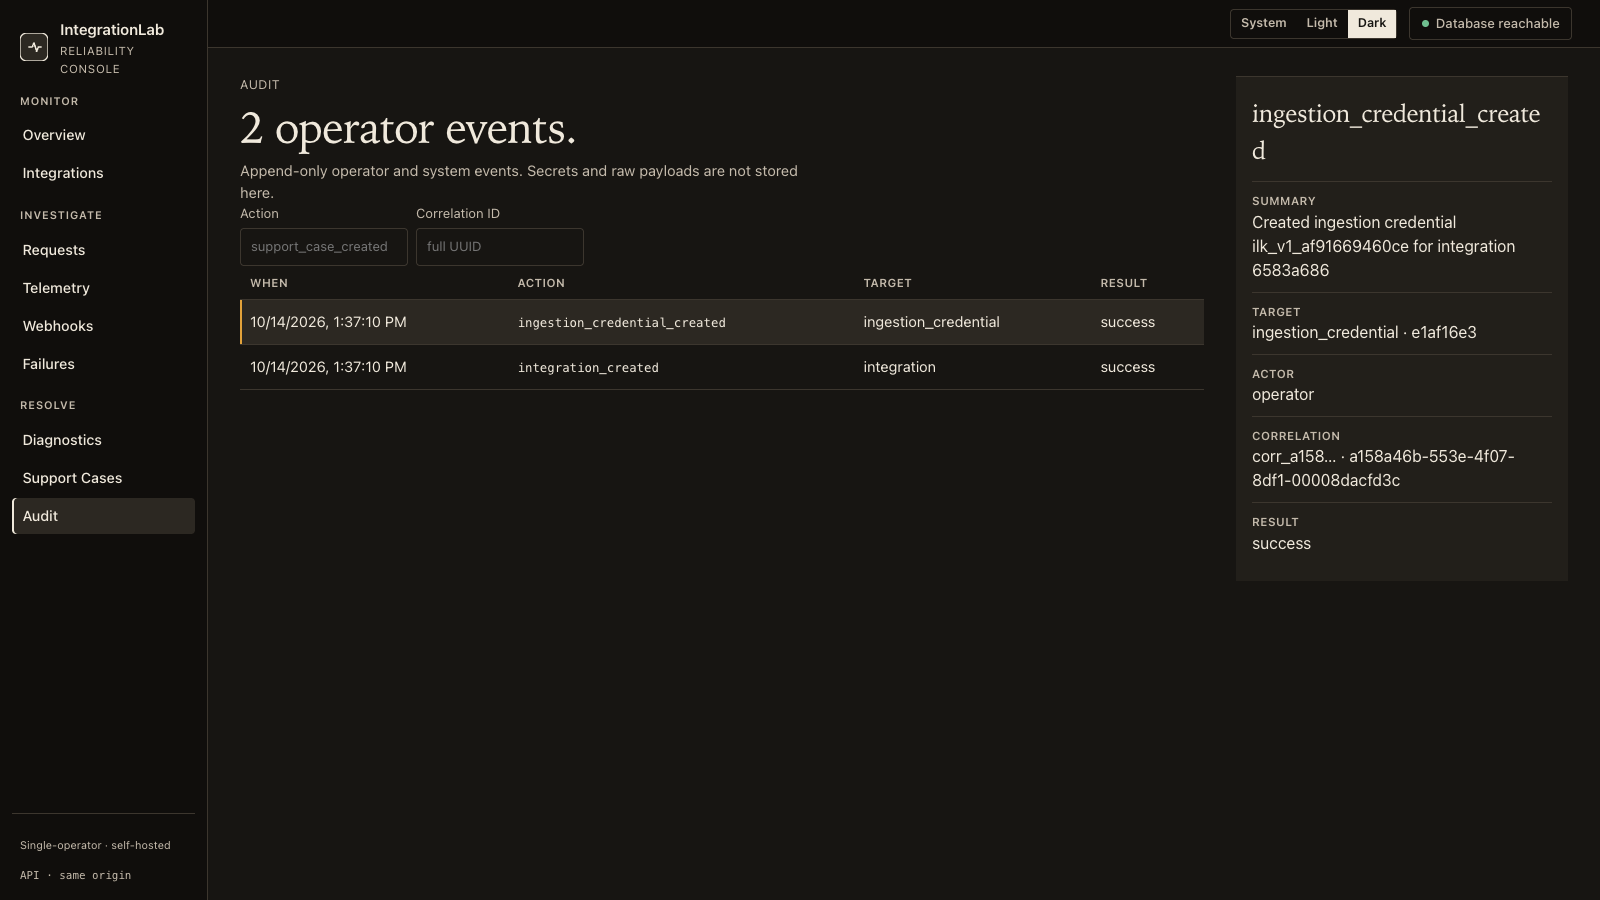
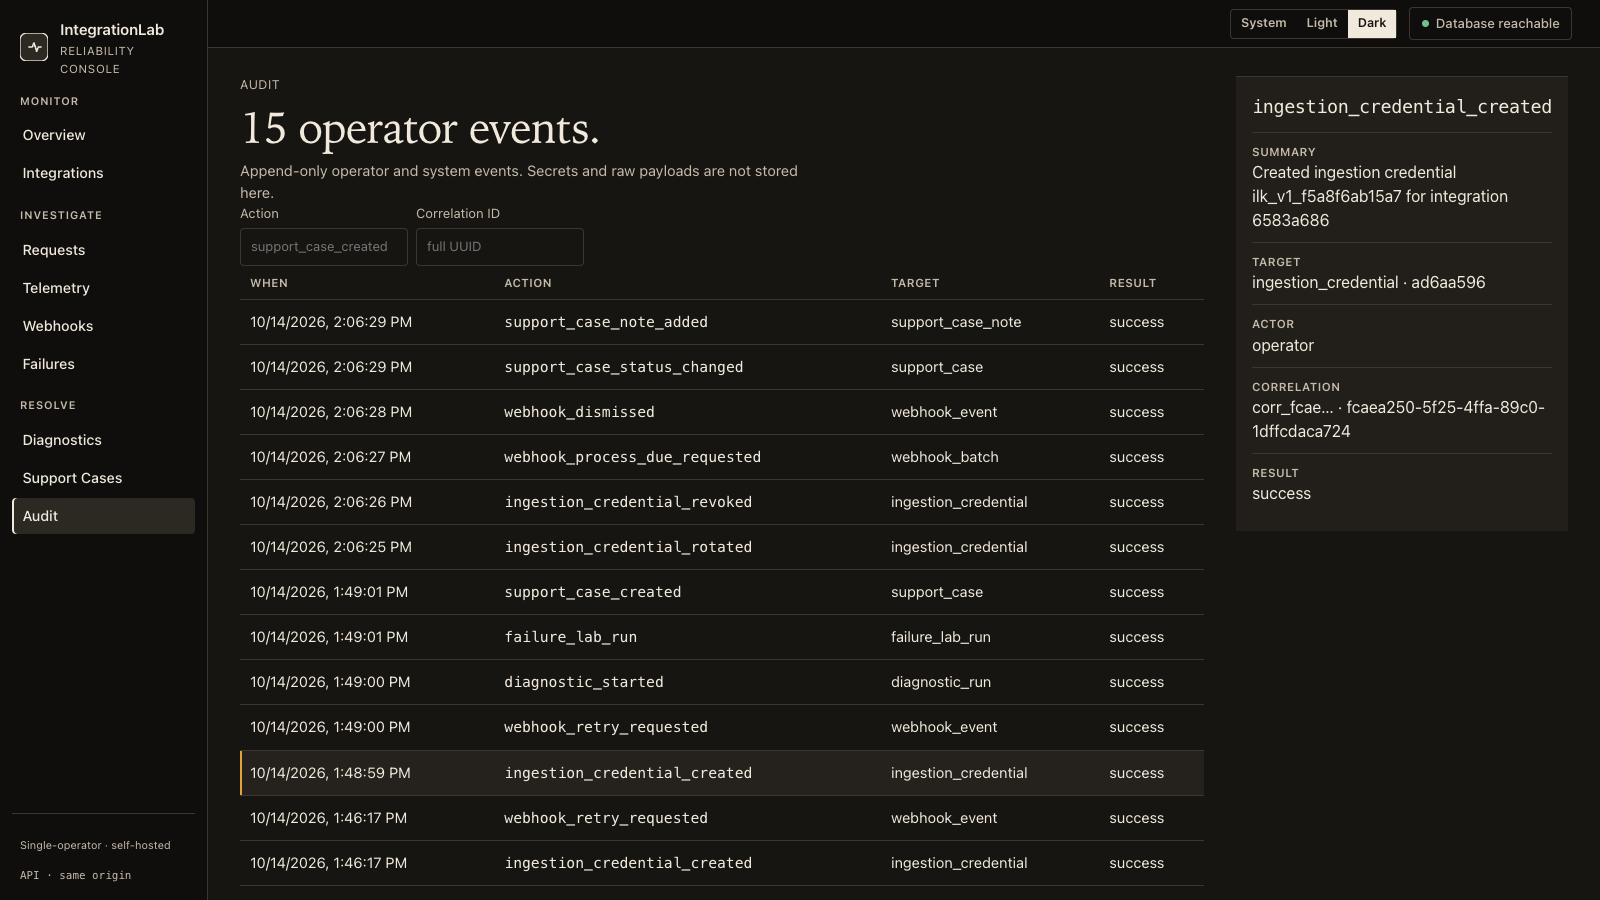
Keep keyboard focus inside the Ledger list that received the key.
Audit identifiers now break only on underscores, and the isolated review covers credential rotation, revocation, webhook dismiss, and support-case notes and status.

diff --git a/frontend/src/pages/AuditPage.tsx b/frontend/src/pages/AuditPage.tsx
@@ -1,6 +1,7 @@
 import { useCallback, useState } from 'react'
 import { listAuditEvents } from '../api'
 import EvidenceTrail from '../components/ledger/EvidenceTrail'
+import IdentifierText from '../components/ledger/IdentifierText'
 import LedgerList from '../components/ledger/LedgerList'
 import SectionStatus from '../components/SectionStatus'
 import { formatTime } from '../format'
@@ -80,8 +81,8 @@ function AuditPage() {
                 detail: shorten(item.safe_summary, 90),
                 cells: [
                   formatTime(item.created_at),
-                  <span key="action" className="lg-mono">
-                    {item.action}
+                  <span key="action" className="lg-id">
+                    <IdentifierText value={item.action} />
                   </span>,
                   item.target_type,
                   item.outcome,
@@ -93,10 +94,7 @@ function AuditPage() {
             />
           ) : null}
         </div>
-        <EvidenceTrail
-          title={(selected?.action ?? 'Event').replaceAll('_', '_\u200b')}
-          stations={auditStations(selected)}
-        />
+        <EvidenceTrail title={selected?.action ?? 'Event'} stations={auditStations(selected)} identifier />
       </div>
     </div>
   )

diff --git a/frontend/src/components/ledger/LedgerList.tsx b/frontend/src/components/ledger/LedgerList.tsx
@@ -2,6 +2,7 @@ import { useState } from 'react'
 import type { KeyboardEvent, ReactNode } from 'react'
 import { HEALTH_LABELS } from '../../format'
 import { healthTone } from '../../ledger/copy'
+import { focusableOptionInList } from '../../ledger/focus'
 import type { HealthState } from '../../types'
 import { useScrollEdges } from './useScrollEdges'
 
@@ -23,10 +24,15 @@ export interface LedgerRow {
   detail?: ReactNode
 }
 
-function focusOption(id: string) {
+function focusOption(list: ParentNode | null, id: string) {
   window.setTimeout(() => {
-    const matches = Array.from(document.querySelectorAll<HTMLElement>('[data-lg-option]'))
-    matches.find((element) => element.dataset.lgId === id && element.getClientRects().length > 0)?.focus()
+    if (!list) return
+    const options = Array.from(list.querySelectorAll<HTMLElement>('[data-lg-option]')).map((element) => ({
+      id: element.dataset.lgId ?? '',
+      visible: element.getClientRects().length > 0,
+      element,
+    }))
+    focusableOptionInList(options, id)?.element.focus()
   }, 0)
 }
 
@@ -52,7 +58,7 @@ function onOptionKey(
   const id = next?.dataset.lgId
   if (!id) return
   onSelect(id)
-  focusOption(id)
+  focusOption(group, id)
 }
 
 function LedgerList({

diff --git a/frontend/src/ledger/focus.test.ts b/frontend/src/ledger/focus.test.ts
@@ -1,0 +1,22 @@
+import assert from 'node:assert/strict'
+import test from 'node:test'
+import { focusableOptionInList } from './focus.ts'
+
+test('arrow-key focus stays in the list that received the key when an id is shared', () => {
+  const delivery = [
+    { id: 'evt-shared', visible: true, list: 'deliveries' },
+    { id: 'evt-other', visible: true, list: 'deliveries' },
+  ]
+  const failed = [
+    { id: 'evt-shared', visible: true, list: 'failed' },
+    { id: 'evt-older', visible: true, list: 'failed' },
+  ]
+  const hiddenCard = { id: 'evt-older', visible: false, list: 'failed' }
+
+  assert.equal(focusableOptionInList(delivery, 'evt-shared')?.list, 'deliveries')
+  assert.equal(focusableOptionInList(failed, 'evt-shared')?.list, 'failed')
+  assert.equal(focusableOptionInList([hiddenCard, ...failed], 'evt-older')?.list, 'failed')
+  assert.equal(focusableOptionInList([hiddenCard, ...failed], 'evt-older')?.visible, true)
+  assert.equal(focusableOptionInList(delivery, 'evt-shared'), delivery[0])
+  assert.notEqual(focusableOptionInList(failed, 'evt-shared'), delivery[0])
+})

diff --git a/frontend/src/components/ledger/EvidenceTrail.tsx b/frontend/src/components/ledger/EvidenceTrail.tsx
@@ -1,18 +1,23 @@
 import type { ReactNode } from 'react'
 import type { TrailStation } from '../../ledger/trail'
+import IdentifierText from './IdentifierText'
 
 function EvidenceTrail({
   title,
   stations,
   action,
+  identifier = false,
 }: {
   title: string
   stations: TrailStation[]
   action?: ReactNode
+  identifier?: boolean
 }) {
   return (
     <aside className="lg-trail" aria-label="Evidence trail">
-      <h2 className="lg-trail-title">{title}</h2>
+      <h2 className={identifier ? 'lg-trail-title lg-id' : 'lg-trail-title'}>
+        {identifier ? <IdentifierText value={title} /> : title}
+      </h2>
       {stations.map((station) => (
         <div key={station.label} className="lg-station">
           <p className="lg-station-label">{station.label}</p>

diff --git a/frontend/src/ledger/ledger.css b/frontend/src/ledger/ledger.css
@@ -438,6 +438,14 @@ html[data-theme='dark'] .ledger-gate .appearance-option.is-selected {
   overflow-wrap: anywhere;
 }
 
+.lg-id {
+  font-family: var(--font-mono);
+  font-weight: 500;
+  letter-spacing: 0;
+  overflow-wrap: normal;
+  word-break: normal;
+}
+
 .lg-section-label {
   margin: 26px 0 8px;
   color: var(--lg-muted);
@@ -631,6 +639,14 @@ html[data-theme='dark'] .ledger-gate .appearance-option.is-selected {
   font-weight: 500;
   letter-spacing: -0.02em;
   overflow-wrap: break-word;
+}
+
+.lg-trail-title.lg-id {
+  font-family: var(--font-mono);
+  font-size: 1.15rem;
+  line-height: 1.35;
+  overflow-wrap: normal;
+  word-break: normal;
 }
 
 .lg-station {

diff --git a/frontend/src/ledger/identifier.test.ts b/frontend/src/ledger/identifier.test.ts
@@ -1,0 +1,14 @@
+import assert from 'node:assert/strict'
+import test from 'node:test'
+import { identifierParts } from './identifier.ts'
+
+test('audit identifiers break only on underscores', () => {
+  const parts = identifierParts('ingestion_credential_created')
+  assert.deepEqual(parts, ['ingestion', 'credential', 'created'])
+  for (const part of parts) {
+    assert.equal(part.includes('_'), false)
+    assert.equal(part.includes('\u200b'), false)
+    assert.ok(part.length > 1)
+  }
+  assert.equal(identifierParts('support_case_created').join('_'), 'support_case_created')
+})

diff --git a/frontend/src/ledger/focus.ts b/frontend/src/ledger/focus.ts
@@ -1,0 +1,14 @@
+export interface FocusCandidate {
+  id: string
+  visible: boolean
+}
+
+/**
+ * Choose the option to focus after arrow-key navigation.
+ * Callers pass only the options that belong to the list which received the key.
+ * A duplicate id in another list, including the same webhook event in the
+ * delivery list and the failed queue, is not a candidate.
+ */
+export function focusableOptionInList<T extends FocusCandidate>(options: readonly T[], id: string): T | undefined {
+  return options.find((option) => option.id === id && option.visible)
+}

diff --git a/frontend/src/components/ledger/IdentifierText.tsx b/frontend/src/components/ledger/IdentifierText.tsx
@@ -1,0 +1,18 @@
+import { identifierParts } from '../../ledger/identifier'
+
+function IdentifierText({ value }: { value: string }) {
+  const parts = identifierParts(value)
+  return (
+    <>
+      {parts.map((part, index) => (
+        <span key={`${part}-${index}`}>
+          {index > 0 ? '_' : null}
+          {part}
+          {index < parts.length - 1 ? <wbr /> : null}
+        </span>
+      ))}
+    </>
+  )
+}
+
+export default IdentifierText

diff --git a/frontend/src/ledger/identifier.ts b/frontend/src/ledger/identifier.ts
@@ -1,0 +1,4 @@
+/** Split a technical identifier on underscores so a line can break only between words. */
+export function identifierParts(value: string): string[] {
+  return value.split('_')
+}
